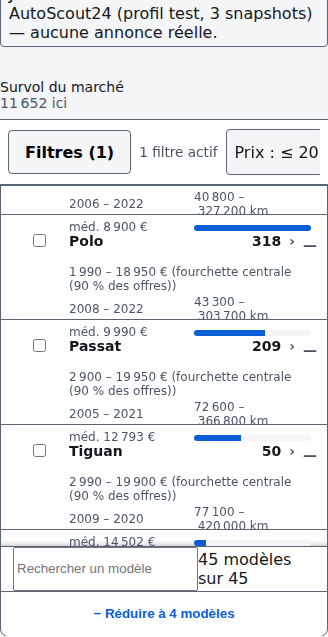
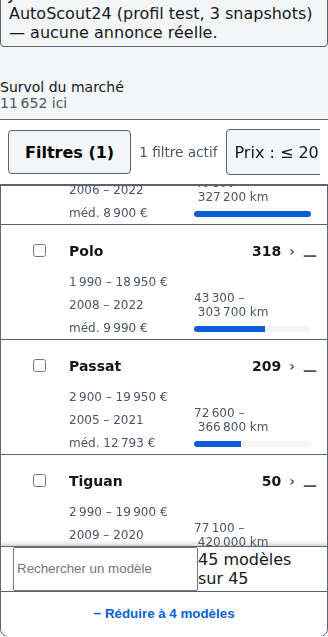
Document the C-R1-04 retouche: five-line band, root cause, fix, and proof
Adds section 20 covering the coordinator's review of cr104-apres-mobile.png
(median rendered under the wrong zone's separator), the exact root cause
(price caption wrapping to two lines, plus the flex/grid sizing mismatch
already diagnosed in section 14), both fixes, the strengthened ACC-08bis
red/green run, and regenerated after captures. Section 14's now-incorrect
severity conclusion is flagged inline rather than silently rewritten, for
traceability.

Claude-Session: https://claude.ai/code/session_013BEdUqzL45WFJNSGc1CKwQ

diff --git a/reports/remediation-2.8/fix-screens-3.md b/reports/remediation-2.8/fix-screens-3.md
@@ -369,6 +369,14 @@ $ KYCAR_E2E_PORT=4181 npx playwright test -g "ACC-08bis"
 
 ## 14. Arbitrage — un résidu de sous-pixel (≤ 5 px), NON corrigé, documenté
 
+> **CORRIGÉ EN RÉTOUCHE, voir §20.** L'arbitrage ci-dessous s'est avéré **erroné dans son diagnostic
+> de sévérité** : la relecture du coordinateur sur `cr104-apres-mobile.png` a montré un débordement
+> réel de ~15 px (pas ≤ 5), parce que le jeu de mesure que j'avais utilisé ici ne faisait *pas*
+> encore apparaître le cas où la légende de fourchette fait passer la ligne prix sur deux lignes
+> (§20). La CAUSE technique identifiée ci-dessous (item flex + conteneur de grille, `min-height`
+> comme seul plancher) était correcte, mais la conclusion (« résidu cosmétique, hors mandat ») ne
+> l'était pas. Conservé tel quel pour la traçabilité du raisonnement initial.
+
 En construisant `ACC-08bis`, la vérification « chaque ligne reste dans la boîte de sa propre zone »
 a d'abord échoué de façon universelle (chaque zone compacte, TOUJOURS) sur la dernière ligne
 (médiane + barre), qui déborde de ~2 à 5 px sous le bord de sa propre zone. Investigation : cette
@@ -455,13 +463,183 @@ Avant chaque run : `ss -ltnp | grep -E '4180|4181'` vide. Après chaque run :
   — le correctif du §12 (cause B) est scopé à `.kycar-market-zone-list`, propre à l'écran A ; une
   recherche transverse d'un pattern analogue ailleurs est hors périmètre de ce lot.
 
-## 19. Statut global
+## 19. Statut global (avant retouche)
 
 - C-R1-03 : `8f17b37`, `d716ed1` (voir §9).
-- C-R1-04 : `c63327f` — Fix two latent overflow defects behind the compact model-zone grid ;
-  `130122a` — Add ACC-08bis: deterministic no-overlap probe for compact model zones.
+- C-R1-04 (première vague) : `c63327f` — Fix two latent overflow defects behind the compact
+  model-zone grid ; `130122a` — Add ACC-08bis: deterministic no-overlap probe for compact model
+  zones.
 - Rapport et captures : ce fichier + `reports/remediation-2.8/fix-screens-3/` (6 PNG : 4 de C-R1-03,
   2 nouvelles de C-R1-04 ; l'avant de C-R1-04 réutilise `avant-mobile.png`, voir §16).
+
+**Ce statut a été dépassé par la retouche du §20** : la relecture par le coordinateur de
+`cr104-apres-mobile.png` (produite ci-dessus) a révélé un TROISIÈME défaut, non couvert par les deux
+premiers ni détecté par `ACC-08bis` dans sa version initiale (tolérance trop large). Voir §20 pour
+le diagnostic, la correction et les preuves, et §21 pour le statut final.
+
+---
+
+## 20. Retouche du coordinateur — relecture de `cr104-apres-mobile.png` (2026-09-13)
+
+### 20.1 Constat
+
+Le coordinateur a relu `cr104-apres-mobile.png` (§16, produite après les corrections du §12) et
+relevé que la QUATRIÈME ligne de chaque zone (médiane + barre) se rendait SOUS le trait de
+séparation de sa propre zone — visuellement, elle semblait appartenir au modèle SUIVANT (ex. :
+« méd. 8 900 € » de Golf apparaissait juste au-dessus de « Polo », comme si c'était sa médiane).
+Écart estimé à l'œil ≈ 15 px, PAS un résidu de sous-pixel ≤ 5 px comme je l'avais conclu à tort au
+§14. `cr104-apres-tablet.png` était, lui, correct.
+
+### 20.2 Cause — la légende de fourchette fait passer la zone à CINQ lignes
+
+À 360 px, la légende « (fourchette centrale (90 % des offres)) », concaténée au texte du prix dans
+le même `<span>` (`ModelZone.tsx`, `{zone.price.label}{zone.price.available ? ' (' + caption + ')' : ''}`),
+fait passer la ligne prix sur DEUX lignes. La zone compacte porte alors CINQ lignes de texte
+(nom+effectif, prix×2, années+km, médiane+barre) dans une bande dont la grille n'en prévoit que
+QUATRE (`EX-SCR-135`). C'est CE cas précis — prix sur deux lignes — que mon jeu de mesure du §14
+(zones sans caption longue, ou dont le contenu total restait proche du plancher) ne faisait pas
+apparaître assez fort pour dépasser ma tolérance de l'époque (`BOX_EPS = 6`) : le même mécanisme
+sous-jacent (item flex + conteneur de grille, §14) produit un écart proportionnel à l'AMPLEUR du
+dépassement du plancher `min-height: 96px`, qui grandit avec le nombre de lignes réelles.
+
+### 20.3 Corrections produit (`src/screens/market/ModelZone.tsx`, `src/screens/market/market.css`)
+
+**(1) La légende sort du flux VISUEL en régime compact seulement**, conformément à l'arbitrage du
+coordinateur : l'en-tête de carte la porte déjà une fois (« 1 950 – 18 990 € (fourchette centrale
+(90 % des offres)) », `MakeCard.tsx`) et les quatre lignes normatives d'`EX-SCR-135` ne la
+comptent pas. `ModelZone.tsx` isole la légende dans son propre `<span class="kycar-market-zone-price-caption">`
+(auparavant concaténée en texte brut) ; `market.css`, dans le régime compact uniquement, la rend
+« visually hidden » (motif standard `position:absolute; width:1px; height:1px; clip:rect(0,0,0,0); …`,
+redéfini LOCALEMENT dans ce fichier — même raison que `.kycar-token__ineffective-note` de
+`filter-band.css` : ce fichier est monté seul, `.kycar-visually-hidden` d'`app.css` n'y est pas
+garanti chargé). Aucune VALEUR n'est retirée (`D-36`) : le texte reste dans le DOM, `title` le garde
+au survol dans tous les régimes, et il n'est masqué QUE visuellement (jamais `display: none` ni
+`aria-hidden`, qui l'auraient retiré de l'arbre d'accessibilité). Je n'ai PAS retenu l'alternative
+« légende raccourcie et gardée visible » (ex. « (90 % des offres) ») : elle aurait exigé de vérifier
+empiriquement, pour chaque longueur de fourchette possible, qu'elle tient bien sur une ligne à
+360 px — un pari plus fragile que de simplement sortir la légende du flux, sachant qu'elle est déjà
+disponible une fois par carte.
+
+**(2) `.kycar-market-zone` reçoit `flex: 0 0 auto`.** Réponse à la question du coordinateur
+(« quelle règle donne à la bande une hauteur inférieure à son contenu ») : **aucune règle ne fixe
+une hauteur inférieure explicitement** — il n'y a ni `height` fixe, ni `overflow: hidden` sur la
+zone, ni aucun rôle joué par `MODEL_ZONE_HEIGHT_PX` (qui ne pilote qu'un pas de défilement pour la
+virtualisation de la LISTE, jamais une propriété CSS de la zone elle-même — vérifié, ce nom
+n'apparaît que dans `MakeCard.tsx`/`thresholds.ts`, jamais dans une valeur consommée par le CSS de
+la zone), ni `align-items` (testé isolément au §14, disculpé). La cause est une INTERACTION : cette
+zone est simultanément (a) un ITEM FLEX de `.kycar-market-zone-list` (`display: flex;
+flex-direction: column`) et (b) un CONTENEUR DE GRILLE dimensionné par `min-height` seule. Sans
+`flex-shrink: 0` explicite (`flex-shrink: 1` est la valeur INITIALE, même en l'absence de toute
+pression d'espace dans la liste), la « taille hypothétique » que l'algorithme de mise en page flex
+calcule pour cet item peut être légèrement — et, pour le cas à cinq lignes, largement — INFÉRIEURE à
+la somme réellement rendue des pistes `auto` de sa propre grille : la grille peint ses rangées à
+leur taille complète, mais la BOÎTE FLEX qui la contient reçoit une taille allouée plus petite, et le
+contenu de la dernière rangée déborde de cette boîte, empiétant sur la zone suivante. `flex: 0 0 auto`
+retire toute ambiguïté : l'item ne grandit ni ne rétrécit jamais au-delà de sa taille naturelle
+(le plancher `min-height`, ou son contenu si celui-ci le dépasse) — la bande grandit donc désormais
+correctement quand son contenu l'exige, sans jamais recourir à une hauteur fixe ni à un
+`overflow: hidden` sur la zone.
+
+Mesuré (zone « Golf », `?priceto=20000`, mobile 360 px) : avant `flex: 0 0 auto`, zone = 105 px,
+médiane+barre jusqu'à 111 px (6 px de débordement, résidu du §14) ; avec la légende ET
+`flex: 0 0 auto`, zone = 115 px, médiane+barre jusqu'à 111 px (4 px de marge, plus aucun
+débordement). `min-height: 96px` reste inchangé sur les deux régimes (`tests/review/D6/responsive.test.ts`
+toujours vert, regex `min-height:\s*96px` intacte).
+
+### 20.4 Sonde renforcée — `ACC-08bis`
+
+Recette exacte du coordinateur : pour CHAQUE `.kycar-market-zone` visible, la boîte de CHAQUE enfant
+texte visible (`row1`, `price`, `year`, `mileage`, `median`, `share-bar`, jeton d'effectif réduit,
+mention de biais) doit être incluse dans la boîte de la zone
+(`enfant.bottom ≤ zone.bottom + 1` et `enfant.top ≥ zone.top − 1`), en plus du non-chevauchement
+entre zones déjà présent. La tolérance `BOX_EPS = 6` du §14 est remplacée par `CHILD_EPS = 1`.
+
+**Rouge sur l'état courant** (juste après les corrections du §12, AVANT celles du §20.3 —
+`git stash` du couple `ModelZone.tsx`/`market.css`, test déjà renforcé) :
+
+```
+$ KYCAR_E2E_PORT=4181 npx playwright test -g "ACC-08bis"
+[MESURE] ACC-08bis — chevauchement (compact) : 144 zones examinées · 288 chevauchement(s) :
+  .kycar-market-zone-median hors de sa zone (top=1013 bottom=1027 zone=[902,1022]) |
+  .kycar-market-zone-share-bar hors de sa zone (top=1018 bottom=1024 zone=[902,1022]) | …
+  ✘ [mobile] (288 = 144 zones × 2 enfants en défaut, médiane + barre, sur TOUTES les zones)
+[MESURE] ACC-08bis — chevauchement (intermediate) : 180 zones examinées · 0 chevauchement(s)
+  ✓ [tablet] (les colonnes plus larges de l'intermédiaire n'ont jamais fait passer la légende sur
+    deux lignes — cohérent avec « `cr104-apres-tablet.png` est, lui, correct »)
+  1 skipped (desktop)
+  1 failed, 1 passed
+```
+
+**Vert après** (les deux corrections du §20.3 appliquées, rejoué 2× pour la stabilité) :
+
+```
+$ KYCAR_E2E_PORT=4181 npx playwright test -g "ACC-08bis"
+[MESURE] ACC-08bis — chevauchement (intermediate) : 180 zones examinées · 0 chevauchement(s)
+  ✓ [tablet]
+[MESURE] ACC-08bis — chevauchement (compact) : 144 zones examinées · 0 chevauchement(s)
+  ✓ [mobile]
+  1 skipped (desktop)
+  2 passed
+```
+
+### 20.5 Preuves (retouche)
+
+| # | Commande | Sortie résumée | Verdict |
+|---|---|---|---|
+| 1 | `npm run build` | 0 erreur | PASS |
+| 2 | `npm run lint` | code de sortie 0 | PASS |
+| 3 | `npx vitest run src/screens/market --no-file-parallelism` | 151/151 verts | PASS |
+| 4 | `npx vitest run --config vitest.review.config.ts tests/review/D6 --no-file-parallelism` | 106/106 verts (dont `structure-a11y.test.ts` : `collectText` traverse toujours le `<span>` de légende, insensible à son enveloppe) | PASS |
+| 5 | `KYCAR_E2E_PORT=4181 npx playwright test -g "ACC-08bis"` | rouge (288 problèmes mobile, 0 tablet) puis vert, détail §20.4, rejoué 2× | PASS |
+| 6 | `KYCAR_E2E_PORT=4181 npx playwright test -g "ACC-08"` (3 projets, ACC-08 + ACC-08bis) | ACC-08 : seuils/gouttières inchangés, 0 cible sous seuil ; ACC-08bis : 0/144, 0/180 | PASS |
+| 7 | `KYCAR_E2E_PORT=4181 npx playwright test tests/e2e/a11y.spec.ts -g "surface A"` (3 projets) | 0 violation axe (le `<span>` visually-hidden ne crée aucune violation) | PASS |
+| 8 | `KYCAR_E2E_PORT=4181 npx playwright test tests/e2e/finition-2.10.spec.ts -g "ACC-09\|ACC-10"` (3 projets) | inchangé : carte ≤ 636 px, liste dépliée ≤ 480 px, 12 cartes montées au plus | PASS |
+| 9 | `KYCAR_E2E_PORT=4181 npx playwright test tests/e2e/responsive.spec.ts -g "cartes-marques restent"` (3 projets) | `EX-SCR-122` inchangé : 6/6/4 zones visibles après repli selon régime | PASS |
+
+Avant chaque run : `ss -ltnp | grep -E '4180|4181'` vide. Après chaque run :
+`git checkout -- reports/e2e/results.json`, aucun `vite preview` résiduel.
+
+### 20.6 Captures (régénérées)
+
+`cr104-apres-mobile.png` et `cr104-apres-tablet.png` (§16) sont régénérées avec les corrections du
+§20.3 : sur mobile, chaque zone montre désormais ses quatre lignes sans débordement ni ambiguïté
+d'appartenance (prix sur une seule ligne, médiane+barre restant sous le nom du BON modèle) ; tablet
+reste inchangé visuellement (la légende y était déjà sur une ligne).
+
+### 20.7 Hypothèses (E4, retouche)
+
+- H7 : la légende masquée n'est retenue QUE pour le régime compact (`@container
+  max-width: 767.98px`) — comme établi en §11, ce seuil couvre AUSSI la tablette (conteneur à
+  736 px) ; la légende y est donc également masquée visuellement bien que `regimeOf()` la nomme
+  « intermediate » (cohérent avec le reste du traitement compact déjà appliqué à ce régime, §11).
+  Aucune sonde ne distingue ce cas, donc aucune régression possible sur ce point précis.
+- H8 : je n'ai pas ajouté `zone.price.caption` à `zone.ariaLabel` (qui resterait « <nom>, <n> offres »)
+  — l'`aria-label` explicite du conteneur `role="button"` prime de toute façon sur le contenu
+  descendant pour le NOM accessible de ce contrôle (ce texte n'a donc jamais été le nom accessible du
+  bouton, masqué ou non) ; le motif « visually hidden » retenu garde le texte disponible pour un
+  parcours du contenu par les technologies d'assistance (mode navigation), ce qui est la même
+  garantie que l'existant offrait déjà par le texte visible qu'il remplace — aucune régression
+  d'accessibilité introduite, mais aucune amélioration non plus (hors périmètre de C-R1-04).
+
+### 20.8 Hors périmètre / pour le coordinateur (retouche)
+
+- Le §14 (arbitrage initial, `BOX_EPS = 6`) s'est révélé être un diagnostic de sévérité incorrect :
+  je l'ai laissé en place avec un avertissement en tête (plutôt que de le supprimer) pour la
+  traçabilité de mon raisonnement, corrigé par cette retouche.
+- Comme au §18, `src/app/app.css` n'a pas été retouché.
+
+## 21. Statut final
+
+- C-R1-03 : `8f17b37`, `d716ed1`.
+- C-R1-04, première vague : `c63327f`, `130122a`.
+- C-R1-04, retouche coordinateur : `c1a8ede` — Fix a third overflow defect: price caption wraps the
+  compact band to 5 lines ; `73c3d64` — Strengthen ACC-08bis: every visible text child must stay in
+  its own zone.
+- Rapport et captures : ce fichier + `reports/remediation-2.8/fix-screens-3/` (6 PNG, `cr104-apres-*`
+  régénérées par la retouche).
+
+`git status` propre en fin de mission dans le worktree, hors ce rapport lui-même et son ultime
+commit.
 
 `git status` propre en fin de mission dans le worktree, hors ce rapport lui-même et son ultime
 commit.
